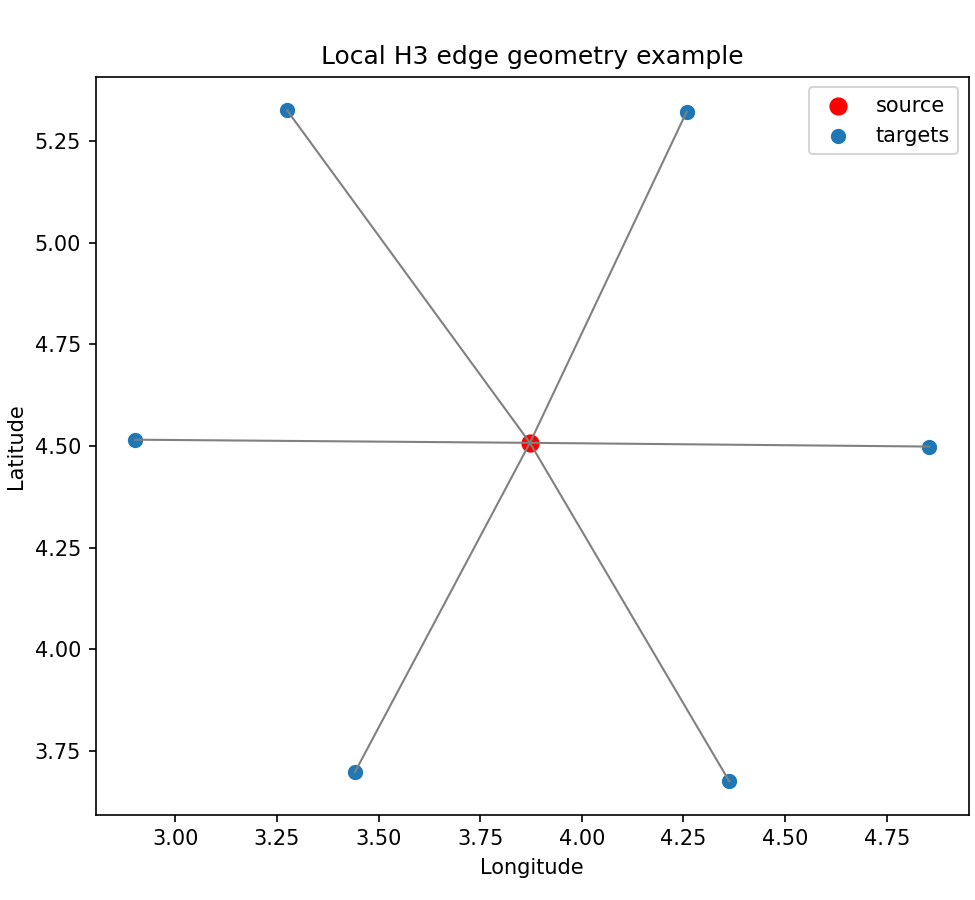
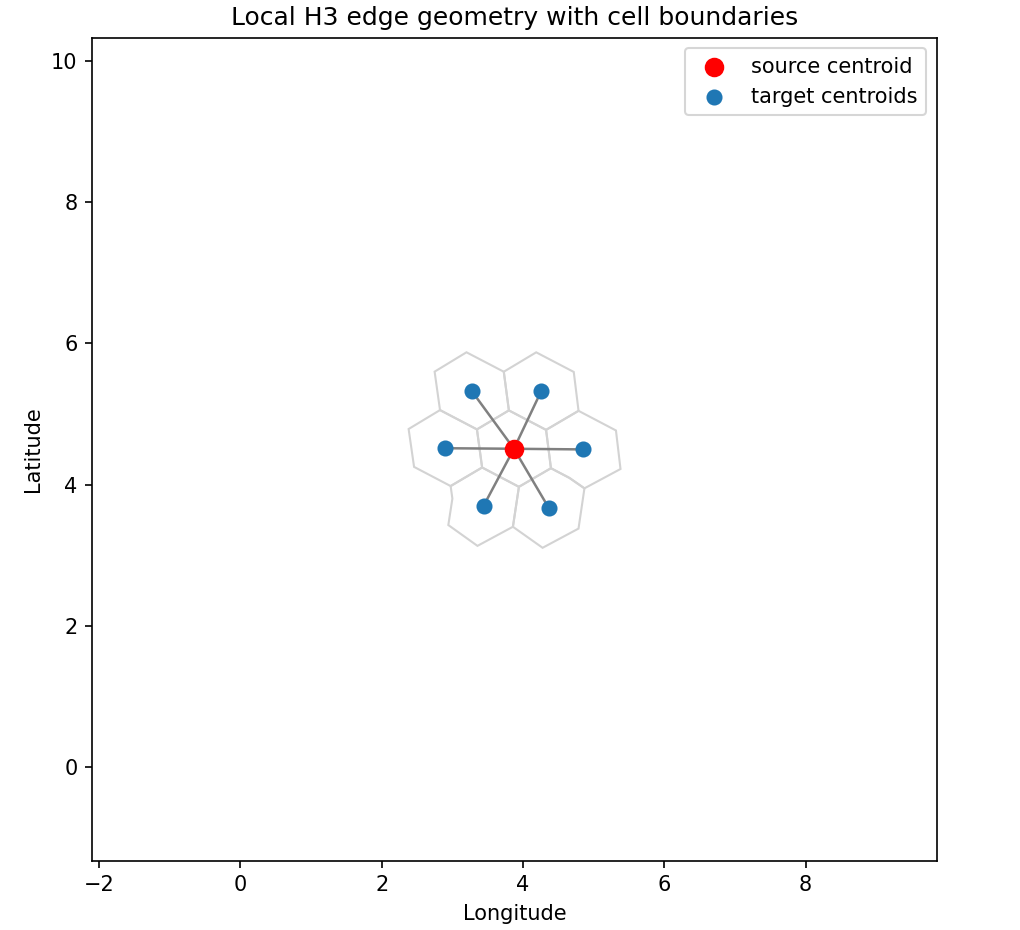
Improve local H3 edge figure with cell boundaries

diff --git a/results/reports/09_build-h3-edge-geometry.md b/results/reports/09_build-h3-edge-geometry.md
@@ -36,7 +36,7 @@ What does the directed neighbor-edge geometry of the H3 grid look like before en
 
 ![Edge bearing histogram](../figures/09_h3_edge_bearing_hist.png)
 
-![Local H3 edge example](../figures/09_h3_edge_local_example.png)
+![Local H3 edge example with cell boundaries](../figures/09_h3_edge_local_example.png)
 
 ## Interpretation
 This step creates the first truly graph-based object in the sequel: a directed H3 edge table with explicit geometry. That is the right foundation for rebuilding the old directional movement logic transparently in Python. The next step can now attach wind and food information to each directed edge and begin constructing the cost components themselves.
